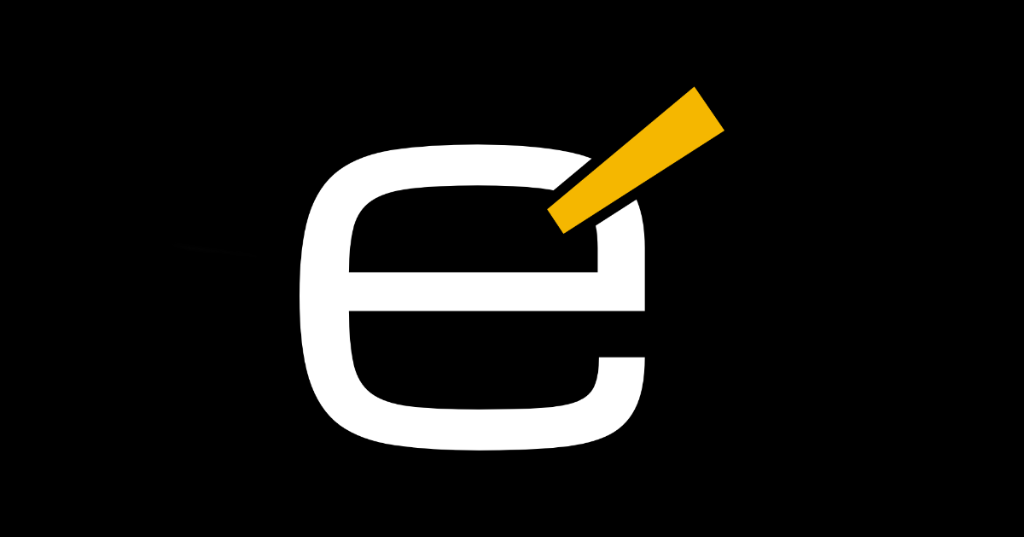
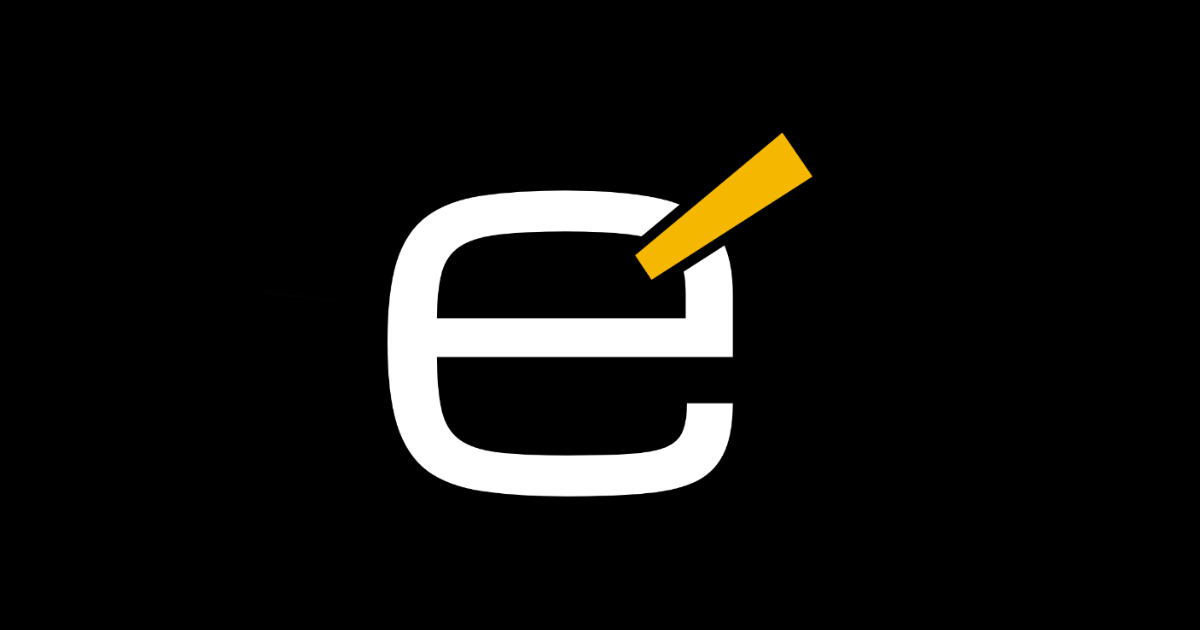
fix: pad og-espin-v1.png to exactly 1200x630 to prevent scaling pixelation

Changed region(s): [[0.2812, 0.2384, 0.6562, 0.8641], [0.625, 0.149, 0.7188, 0.298]]

diff --git a/pad.js b/pad.js
@@ -1,0 +1,20 @@
+const Jimp = require('jimp');
+
+async function padImage() {
+  try {
+    const img = await Jimp.read('public/og-espin-v1.png');
+    // Create a new 1200x630 image with black background (#000000)
+    const background = new Jimp(1200, 630, '#000000');
+    // Composite the original image in the center
+    const x = Math.round((1200 - img.bitmap.width) / 2);
+    const y = Math.round((630 - img.bitmap.height) / 2);
+    
+    background.composite(img, x, y);
+    await background.writeAsync('public/og-espin-v1.png');
+    console.log('Image padded successfully!');
+  } catch (err) {
+    console.error('Error padding image:', err);
+  }
+}
+
+padImage();

diff --git a/pad-sharp.js b/pad-sharp.js
@@ -1,0 +1,20 @@
+const sharp = require('sharp');
+
+async function padImage() {
+  try {
+    await sharp('public/og-espin-v1.png')
+      .extend({
+        top: Math.floor((630 - 537) / 2),
+        bottom: Math.ceil((630 - 537) / 2),
+        left: Math.floor((1200 - 1024) / 2),
+        right: Math.ceil((1200 - 1024) / 2),
+        background: { r: 0, g: 0, b: 0, alpha: 1 }
+      })
+      .toFile('public/og-espin-v1-1200.png');
+    console.log('Image padded successfully to 1200x630!');
+  } catch (err) {
+    console.error('Error padding image:', err);
+  }
+}
+
+padImage();
